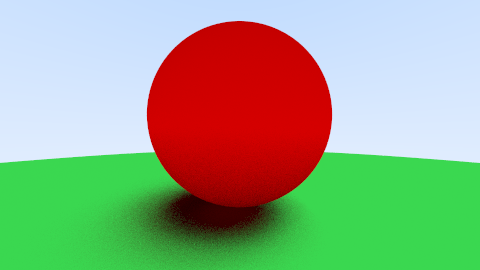
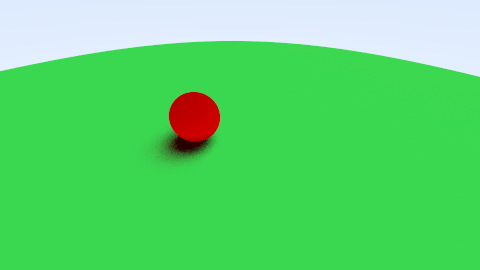
Make camera positionable

diff --git a/src/camera.rs b/src/camera.rs
@@ -13,7 +13,9 @@ pub struct Camera {
 
 impl Camera {
     pub fn new(
-        origin: Vec3,
+        lookfrom: Vec3,
+        lookat: Vec3,
+        vup: Vec3,
         vfov: f64,
         focal_length: f64,
         aspect_ratio: f64,
@@ -25,28 +27,14 @@ impl Camera {
         let viewport_height = 2.0 * h;
         let viewport_width = aspect_ratio * viewport_height;
 
-        // compute horizontal and vertical vectors
-        let horizontal = Vec3 {
-            x: viewport_width,
-            y: 0.0,
-            z: 0.0,
-        };
+        let w = (lookfrom - lookat).normalized();
+        let u = Vec3::cross(&vup, &w).normalized();
+        let v = Vec3::cross(&w, &u);
 
-        let vertical = Vec3 {
-            x: 0.0,
-            y: viewport_height,
-            z: 0.0,
-        };
-
-        // compute lower left corner
-        let lower_left_corner = origin
-            - horizontal / 2.0
-            - vertical / 2.0
-            - Vec3 {
-                x: 0.0,
-                y: 0.0,
-                z: focal_length,
-            };
+        let origin = lookfrom;
+        let horizontal = viewport_width * u;
+        let vertical = viewport_height * v;
+        let lower_left_corner = origin - horizontal/2.0 - vertical/2.0 - w;
 
         Camera {
             origin,

diff --git a/src/vec.rs b/src/vec.rs
@@ -68,7 +68,6 @@ impl ops::Neg for Vec3 {
     }
 }
 
-
 impl ops::AddAssign<Vec3> for Vec3 {
     fn add_assign(&mut self, rhs: Vec3) {
         self.x += rhs.x;
@@ -76,7 +75,6 @@ impl ops::AddAssign<Vec3> for Vec3 {
         self.z += rhs.z;
     }    
 }
-
 
 impl ops::MulAssign<f64> for Vec3 {
     fn mul_assign(&mut self, rhs: f64) {
@@ -147,5 +145,13 @@ impl Vec3 {
     pub fn normalize(&mut self) {
         let norm = self.norm();
         *self /= norm;
+    }
+
+    pub fn cross(u: &Vec3, v: &Vec3) -> Vec3 {
+        Vec3 {
+            x: u.y * v.z - u.z * v.y,
+            y: u.z * v.x - u.x * v.z,
+            z: u.x * v.y - u.y * v.x
+        }
     }
 }

diff --git a/src/main.rs b/src/main.rs
@@ -176,7 +176,14 @@ fn main() {
     let opts = read_cli();
 
     // Construct Camera
-    let camera = camera::Camera::new(Vec3::zero(), 80.0, 1.0, opts.aspect_ratio);
+    let camera = camera::Camera::new(
+        Vec3::new(-2.0, 2.0, 1.0),
+        Vec3::zero(),
+        Vec3::new(0.0, 1.0, 0.0),
+        80.0,
+        1.0,
+        opts.aspect_ratio
+    );
 
     // Construct Scene
     let scene_text = fs::read_to_string(&opts.scene_file).unwrap();
